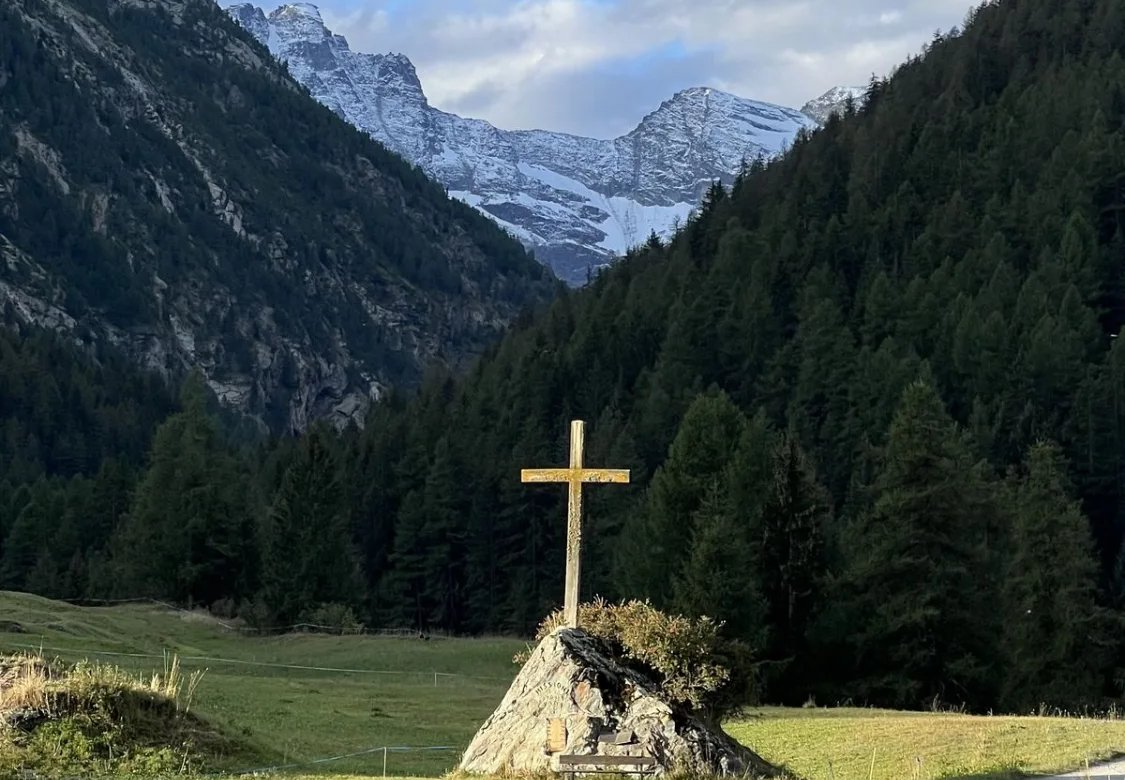
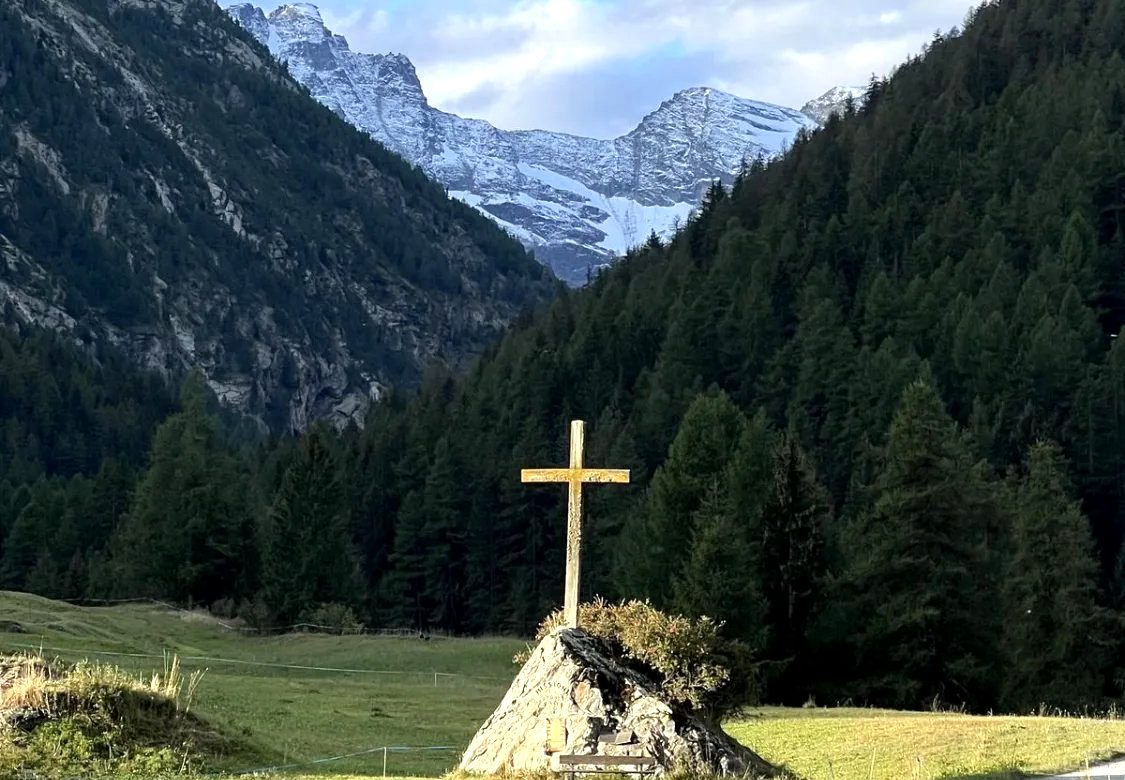
메인 슬라이드를 밝게: 어두운 찬양 사진 제거, 사진 보정, 어두운 덧칠 완화
Claude-Session: https://claude.ai/code/session_01VeaoQMW64HxnegUjJitKEx

Changed region(s): [[0.1867, 0.0, 0.8711, 0.3385], [0.0, 0.5231, 1.0, 1.0]]

diff --git a/css/style.css b/css/style.css
@@ -139,10 +139,10 @@ button { font: inherit; color: inherit; cursor: pointer; border: 0; background: 
 /* 글자가 잘 보이도록 왼쪽을 어둡게 */
 .slide::before {
   content: ""; position: absolute; inset: 0; z-index: 1;
-  background: linear-gradient(90deg, rgba(10,24,20,.62) 0%, rgba(10,24,20,.28) 55%, rgba(10,24,20,.08) 100%);
+  background: linear-gradient(90deg, rgba(10,24,20,.5) 0%, rgba(10,24,20,.14) 50%, rgba(10,24,20,0) 100%);
 }
 
-.slide-text { position: relative; z-index: 2; width: 100%; padding-top: 80px; }
+.slide-text { position: relative; z-index: 2; width: 100%; padding-top: 80px; text-shadow: 0 2px 14px rgba(0,0,0,.4); }
 .slide-text > * { opacity: 0; transform: translateY(24px); transition: opacity .9s var(--ease), transform .9s var(--ease); }
 .slide.active .slide-text > * { opacity: 1; transform: none; }
 .slide.active .slide-text > :nth-child(1) { transition-delay: .35s; }

diff --git a/index.html b/index.html
@@ -103,14 +103,6 @@
         <a href="#" class="btn">프로그램 보기</a>
       </div>
     </div>
-    <div class="slide" data-bg="images/photos/hero-worship.jpg">
-      <div class="inner slide-text">
-        <p class="eyebrow">Mission Training</p>
-        <h1>함께 예배하고 훈련하며<br />열방으로</h1>
-        <p class="lead">한동 선교 컨퍼런스, 선교훈련학교, 리더십학교, <br />비전트립으로 이어지는 선교 훈련.</p>
-        <a href="#" class="btn">공지사항 보기</a>
-      </div>
-    </div>
 
     <div class="inner hero-controls">
       <span class="count"><b id="curNum">01</b> / <span id="totalNum">03</span></span>
